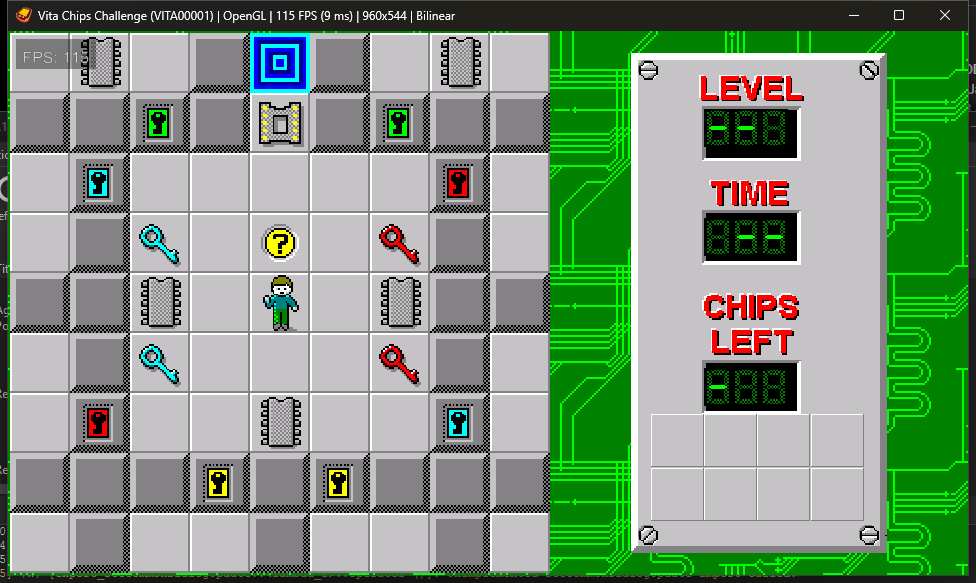
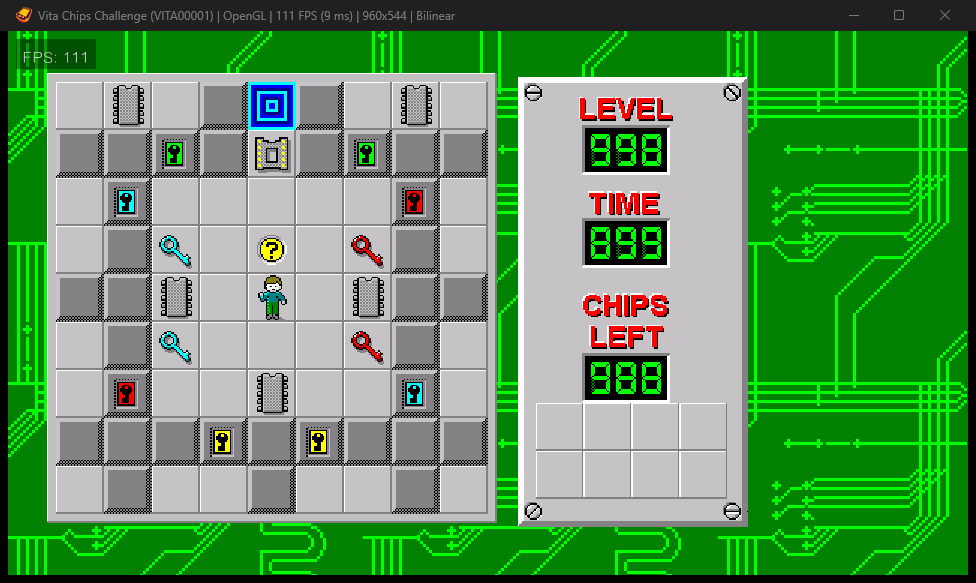
Fix Windows layout and Vita action controls

diff --git a/src/vita_main.c b/src/vita_main.c
@@ -6,17 +6,17 @@
 #include <stdio.h>
 #include <stdlib.h>
 
-#define SCREEN_WIDTH 960
-#define SCREEN_HEIGHT 544
+#define WINDOW_WIDTH 960
+#define WINDOW_HEIGHT 544
+#define LOGICAL_WIDTH 640
+#define LOGICAL_HEIGHT 363
 #define VIEW_TILES 9
 #define SOURCE_TILE_SIZE 32
-#define BOARD_TILE_SIZE 60
-#define BOARD_X 2
-#define BOARD_Y 2
-#define INFO_X 623
-#define INFO_Y 22
-#define INFO_SCALE_NUMERATOR 5
-#define INFO_SCALE_DENOMINATOR 3
+#define BOARD_TILE_SIZE 32
+#define BOARD_X 32
+#define BOARD_Y 34
+#define INFO_X 340
+#define INFO_Y 31
 
 typedef struct vcc_graphics {
     SDL_Texture *tiles;
@@ -166,8 +166,8 @@ static void draw_background(SDL_Renderer *renderer, SDL_Texture *background)
 {
     int x;
     int y;
-    for (y = 0; y < SCREEN_HEIGHT; y += 196) {
-        for (x = 0; x < SCREEN_WIDTH; x += 237) {
+    for (y = 0; y < LOGICAL_HEIGHT; y += 196) {
+        for (x = 0; x < LOGICAL_WIDTH; x += 237) {
             SDL_Rect target = {x, y, 237, 196};
             (void)SDL_RenderCopy(renderer, background, NULL, &target);
         }
@@ -187,6 +187,22 @@ static void draw_board(SDL_Renderer *renderer, const vcc_graphics *graphics,
         camera_x = (int)VCC_MAP_WIDTH - VIEW_TILES;
     if (camera_y > (int)VCC_MAP_HEIGHT - VIEW_TILES)
         camera_y = (int)VCC_MAP_HEIGHT - VIEW_TILES;
+    {
+        SDL_Rect surround = {BOARD_X - 6, BOARD_Y - 6,
+            VIEW_TILES * BOARD_TILE_SIZE + 12, VIEW_TILES * BOARD_TILE_SIZE + 12};
+        SDL_SetRenderDrawColor(renderer, 192, 192, 192, 255);
+        (void)SDL_RenderFillRect(renderer, &surround);
+        SDL_SetRenderDrawColor(renderer, 255, 255, 255, 255);
+        (void)SDL_RenderDrawLine(renderer, surround.x, surround.y,
+            surround.x + surround.w - 1, surround.y);
+        (void)SDL_RenderDrawLine(renderer, surround.x, surround.y,
+            surround.x, surround.y + surround.h - 1);
+        SDL_SetRenderDrawColor(renderer, 128, 128, 128, 255);
+        (void)SDL_RenderDrawLine(renderer, surround.x + surround.w - 1, surround.y,
+            surround.x + surround.w - 1, surround.y + surround.h - 1);
+        (void)SDL_RenderDrawLine(renderer, surround.x, surround.y + surround.h - 1,
+            surround.x + surround.w - 1, surround.y + surround.h - 1);
+    }
     for (y = 0; y < VIEW_TILES; ++y) {
         for (x = 0; x < VIEW_TILES; ++x) {
             uint8_t map_x = (uint8_t)(camera_x + x);
@@ -206,11 +222,6 @@ static void draw_board(SDL_Renderer *renderer, const vcc_graphics *graphics,
     }
 }
 
-static int info_coordinate(int local)
-{
-    return local * INFO_SCALE_NUMERATOR / INFO_SCALE_DENOMINATOR;
-}
-
 static void draw_number(SDL_Renderer *renderer, SDL_Texture *digits,
     unsigned value, int x, int y, int yellow)
 {
@@ -218,11 +229,11 @@ static void draw_number(SDL_Renderer *renderer, SDL_Texture *digits,
     if (value > 999U) value = 999U;
     for (divisor = 100U; divisor != 0U; divisor /= 10U) {
         unsigned digit = (value / divisor) % 10U;
-        unsigned frame = digit + (yellow ? 0U : 12U);
+        unsigned frame = digit + (yellow ? 2U : 14U);
         SDL_Rect source = {0, (int)frame * 23, 17, 23};
-        SDL_Rect target = {x, y, info_coordinate(17), info_coordinate(23)};
+        SDL_Rect target = {x, y, 17, 23};
         (void)SDL_RenderCopy(renderer, digits, &source, &target);
-        x += info_coordinate(17);
+        x += 17;
     }
 }
 
@@ -231,9 +242,8 @@ static void draw_inventory(SDL_Renderer *renderer, const vcc_graphics *graphics,
 {
     unsigned slot;
     for (slot = 0U; slot < 8U; ++slot) {
-        SDL_Rect box = {INFO_X + info_coordinate(12 + (int)(slot % 4U) * 32),
-            INFO_Y + info_coordinate(217 + (int)(slot / 4U) * 32),
-            info_coordinate(32), info_coordinate(32)};
+        SDL_Rect box = {INFO_X + 12 + (int)(slot % 4U) * 32,
+            INFO_Y + 217 + (int)(slot / 4U) * 32, 32, 32};
         SDL_SetRenderDrawColor(renderer, 255, 255, 255, 255);
         (void)SDL_RenderDrawLine(renderer, box.x, box.y, box.x + box.w - 1, box.y);
         (void)SDL_RenderDrawLine(renderer, box.x, box.y, box.x, box.y + box.h - 1);
@@ -255,17 +265,17 @@ static void draw_inventory(SDL_Renderer *renderer, const vcc_graphics *graphics,
 static void draw_info(SDL_Renderer *renderer, const vcc_graphics *graphics,
     const vcc_game *game)
 {
-    SDL_Rect target = {INFO_X, INFO_Y, info_coordinate(154), info_coordinate(300)};
+    SDL_Rect target = {INFO_X, INFO_Y, 154, 300};
     unsigned seconds = game->time_left_ticks == 0U ? 0U
         : (game->time_left_ticks + 19U) / 20U;
     (void)SDL_RenderCopy(renderer, graphics->info, NULL, &target);
     draw_number(renderer, graphics->digits, game->level->number,
-        INFO_X + info_coordinate(44), INFO_Y + info_coordinate(34), 0);
+        INFO_X + 47, INFO_Y + 37, 0);
     draw_number(renderer, graphics->digits, seconds,
-        INFO_X + info_coordinate(44), INFO_Y + info_coordinate(99),
+        INFO_X + 47, INFO_Y + 99,
         game->level->time_limit == 0U || seconds <= 15U);
     draw_number(renderer, graphics->digits, game->chips_left,
-        INFO_X + info_coordinate(44), INFO_Y + info_coordinate(189), 0);
+        INFO_X + 47, INFO_Y + 189, 0);
     draw_inventory(renderer, graphics, game);
 }
 
@@ -309,9 +319,9 @@ int main(void)
     (void)SDL_SetHint(SDL_HINT_RENDER_SCALE_QUALITY, "0");
     if (SDL_Init(SDL_INIT_VIDEO | SDL_INIT_GAMECONTROLLER | SDL_INIT_AUDIO) < 0) goto cleanup;
     window = SDL_CreateWindow("Vita Chips Challenge", SDL_WINDOWPOS_UNDEFINED,
-        SDL_WINDOWPOS_UNDEFINED, SCREEN_WIDTH, SCREEN_HEIGHT, 0);
+        SDL_WINDOWPOS_UNDEFINED, WINDOW_WIDTH, WINDOW_HEIGHT, 0);
     renderer = window ? SDL_CreateRenderer(window, -1, SDL_RENDERER_ACCELERATED) : NULL;
-    if (!renderer || SDL_RenderSetLogicalSize(renderer, SCREEN_WIDTH, SCREEN_HEIGHT) != 0) goto cleanup;
+    if (!renderer || SDL_RenderSetLogicalSize(renderer, LOGICAL_WIDTH, LOGICAL_HEIGHT) != 0) goto cleanup;
     graphics.tiles = load_bmp(renderer, "app0:/data/OBJ32_4_RGB.bmp");
     graphics.actors = load_masked_tiles(renderer);
     graphics.background = load_bmp(renderer, "app0:/data/BACKGROUND_RGB.bmp");
@@ -328,9 +338,11 @@ int main(void)
             vcc_direction direction = event_direction(&event);
             if (event.type == SDL_QUIT) running = 0;
             if (direction != VCC_DIR_NONE) (void)vcc_game_move(&game, direction);
-            if ((event.type == SDL_KEYDOWN && event.key.keysym.sym == SDLK_r)
+            if ((event.type == SDL_KEYDOWN
+                    && (event.key.keysym.sym == SDLK_r
+                        || event.key.keysym.sym == SDLK_RETURN))
                 || (event.type == SDL_CONTROLLERBUTTONDOWN
-                    && event.cbutton.button == SDL_CONTROLLER_BUTTON_X)) {
+                    && event.cbutton.button == SDL_CONTROLLER_BUTTON_A)) {
                 if (game.status == VCC_WON && level_index + 1U < dat->level_count)
                     ++level_index;
                 (void)vcc_game_start(&game, &dat->levels[level_index]);
